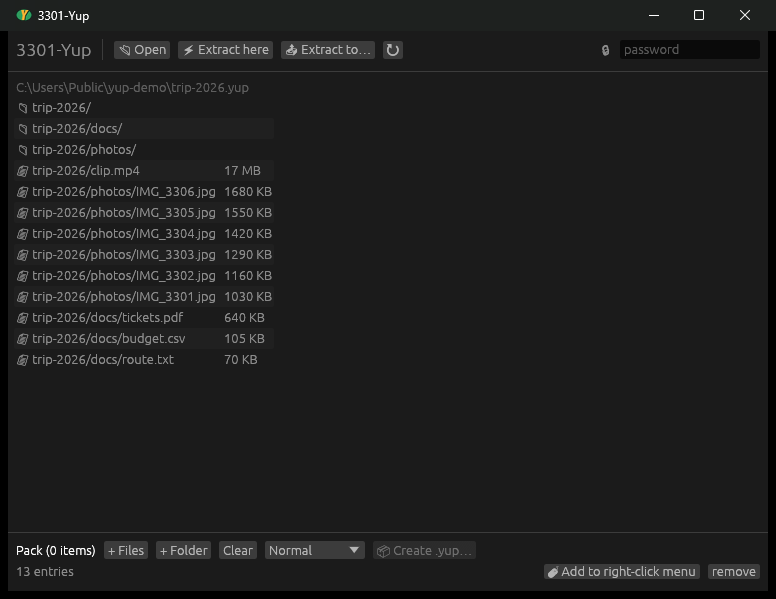
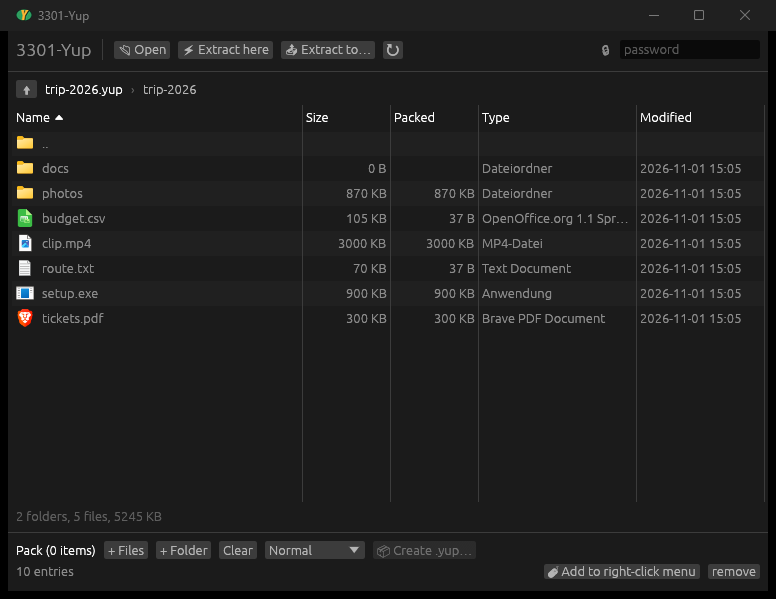
README: archive view, .gz

diff --git a/README.md b/README.md
@@ -28,7 +28,7 @@
 
 <p align="center"><img src="assets/main.png" alt="3301-Yup main window" width="80%"></p>
 
-Open any archive, look inside, then click **Extract here** or **Extract to…**. Drop files in, pick a level, and click **Create .yup**. That's the whole app.
+Open any archive and walk through it like a folder in Explorer: sortable columns, real icons, double-click to open a file. Then click **Extract here** or **Extract to…**. Drop files in, pick a level, and click **Create .yup**. That's the whole app.
 
 ## 📊 Live progress
 
@@ -53,7 +53,7 @@ You see both files with their real icons, sizes and dates, then pick **Yes**, **
 | | |
 |---|---|
 | 📦 **Packs** | into `.yup`: zstd on every CPU core, with media stored as-is |
-| 📂 **Opens** | `.yup` `.zip` `.7z` `.rar` `.tar` `.tar.gz` `.tgz`, password zip/7z included |
+| 📂 **Opens** | `.yup` `.zip` `.7z` `.rar` `.tar` `.tar.gz` `.tgz` `.gz`, password zip/7z included |
 | 🖱 **Right-click menu** | Extract here · Extract to folder · Add to *name*.yup |
 | 💣 **Zip bomb shield** | refuses archives that would blow up to over 1000× their size, and checks free disk space first |
 | 🛡 **Safe paths** | no archive can write outside the folder you picked |
